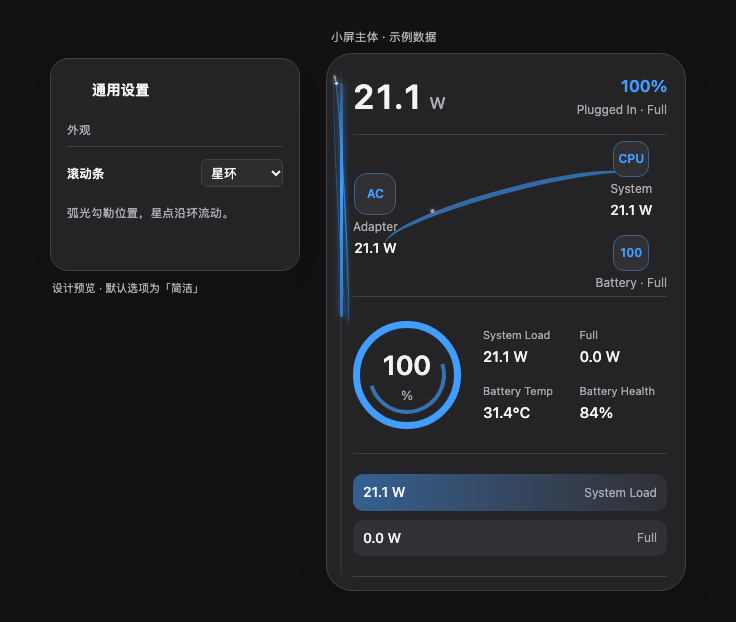
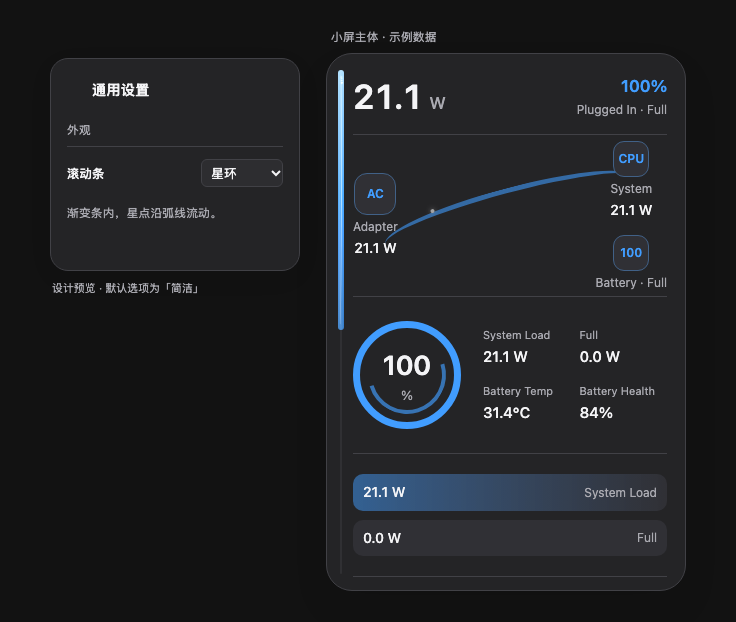
Keep orbit light inside the gradient scrollbar thumb

Changed region(s): [[0.4375, 0.1222, 0.5, 0.5193], [0.0938, 0.336, 0.3125, 0.3666]]

diff --git a/design/scrollbar-styles/scrollbar-style-preview.html b/design/scrollbar-styles/scrollbar-style-preview.html
@@ -66,15 +66,15 @@
 #wattson-scroll-design .ws-rail:focus-visible { outline:2px solid var(--ws-accent); outline-offset:-3px; border-radius:10px; }
 #wattson-scroll-design .ws-track { position:absolute; top:0; bottom:0; width:2px; left:12px; background:color-mix(in srgb,var(--ws-muted),transparent 91%); border-radius:2px; }
 #wattson-scroll-design .ws-thumb { position:absolute; left:0; width:26px; height:220px; top:0; pointer-events:none; }
-#wattson-scroll-design .ws-simple { position:absolute; left:10px; top:0; bottom:0; width:5px; background:light-dark(#8b8b9480,#b4b4be70); border-radius:5px; }
-#wattson-scroll-design .ws-rail:hover .ws-simple { background:var(--ws-muted); }
-#wattson-scroll-design .ws-orbit { position:absolute; inset:0; }
-#wattson-scroll-design .ws-core { position:absolute; left:12px; top:5%; height:90%; width:3px; border-radius:6px; background:linear-gradient(180deg,color-mix(in srgb,var(--ws-accent),transparent 65%),var(--ws-accent) 45%,color-mix(in srgb,var(--ws-accent),transparent 38%)); box-shadow:0 0 5px color-mix(in srgb,var(--ws-accent),transparent 76%); }
-#wattson-scroll-design .ws-orbit-line { position:absolute; inset:5px 9px; border:1px solid color-mix(in srgb,var(--ws-accent),transparent 65%); border-radius:50%; transform:rotate(-3deg); }
-#wattson-scroll-design .ws-orbit-front { border-left-color:transparent; border-top-color:color-mix(in srgb,var(--ws-bright),transparent 36%); border-bottom-color:transparent; border-right-color:var(--ws-accent); filter:drop-shadow(0 0 2px var(--ws-accent)); opacity:.66; }
-#wattson-scroll-design .ws-star { position:absolute; left:50%; top:50%; width:3px; height:3px; margin:-1.5px; border-radius:50%; background:#fff; box-shadow:0 0 2px var(--ws-accent),0 0 6px var(--ws-bright); }
-#wattson-scroll-design .ws-star:not([data-head]) { width:2px; height:2px; margin:-1px; }
-#wattson-scroll-design .ws-rail:hover .ws-core { box-shadow:0 0 7px color-mix(in srgb,var(--ws-accent),transparent 40%); }
+#wattson-scroll-design .ws-simple { position:absolute; left:10px; top:0; bottom:0; width:6px; background:linear-gradient(180deg,color-mix(in srgb,var(--ws-accent),white 48%),var(--ws-accent) 48%,color-mix(in srgb,var(--ws-accent),black 28%)); border-radius:6px; }
+#wattson-scroll-design .ws-rail:hover .ws-simple { filter:brightness(1.08); }
+#wattson-scroll-design .ws-orbit { position:absolute; left:10px; top:0; bottom:0; width:6px; overflow:hidden; border-radius:6px; isolation:isolate; background:linear-gradient(180deg,color-mix(in srgb,var(--ws-accent),white 48%),var(--ws-accent) 48%,color-mix(in srgb,var(--ws-accent),black 28%)); }
+#wattson-scroll-design .ws-core { position:absolute; inset:0; background:linear-gradient(90deg,#ffffff00,#ffffff28 48%,#ffffff00); box-shadow:inset 1px 0 1px #ffffff15; }
+#wattson-scroll-design .ws-orbit-line { position:absolute; inset:5px 1.4px; border:.6px solid #ffffff25; border-radius:50%; transform:skewX(-.18deg); }
+#wattson-scroll-design .ws-orbit-front { border-left-color:transparent; border-top-color:#ffffff65; border-bottom-color:transparent; border-right-color:#ffffff8a; opacity:.66; }
+#wattson-scroll-design .ws-star { position:absolute; left:50%; top:50%; width:2px; height:2px; margin:-1px; border-radius:50%; background:#fff; box-shadow:0 0 3px #ffffffb0,0 0 6px var(--ws-bright); }
+#wattson-scroll-design .ws-star:not([data-head]) { width:1.4px; height:1.4px; margin:-.7px; }
+#wattson-scroll-design .ws-rail:hover .ws-orbit { filter:brightness(1.08); }
 #wattson-scroll-design[data-style="simple"] .ws-orbit { display:none; }
 #wattson-scroll-design[data-style="orbit"] .ws-simple { display:none; }
 #wattson-scroll-design[data-style="hidden"] .ws-rail { display:none; }
@@ -106,7 +106,7 @@
             <option value="orbit" selected>星环</option>
           </select>
         </div>
-        <div id="scrollbar-description" class="ws-setting-note" aria-live="polite">弧光勾勒位置，星点沿环流动。</div>
+        <div id="scrollbar-description" class="ws-setting-note" aria-live="polite">渐变条内，星点沿弧线流动。</div>
       </section>
       <div class="ws-caption">设计预览 · 默认选项为「简洁」</div>
     </div>
@@ -175,7 +175,7 @@
   const thumb = root.querySelector('.ws-thumb');
   const choice = root.querySelector('#scrollbar-choice');
   const stars = [...root.querySelectorAll('.ws-star')];
-  const descriptions = {hidden:'隐藏滑动条，仍可用触控板或滚轮上下浏览。',simple:'低调的细滑块，直接拖动即可定位。',orbit:'弧光勾勒位置，星点沿环流动。'};
+  const descriptions = {hidden:'隐藏滑动条，仍可用触控板或滚轮上下浏览。',simple:'主题色渐变滑块，直接拖动即可定位。',orbit:'渐变条内，星点沿弧线流动。'};
   const ui = {style:'orbit',theme:'auto',palette:'blue',height:536,reduceMotion:false};
   const media = matchMedia('(prefers-reduced-motion: reduce)');
   let geometry = {height:1,travel:0,max:0,top:0};
@@ -184,11 +184,11 @@
   function positionStars(seconds) {
     const phase = reduced() ? .30 : Math.min((seconds % 3.3) / 2.8, 1);
     const angle = phase * Math.PI * 2 - Math.PI / 2;
-    const half = Math.max(geometry.height / 2 - 6, 4), tilt = -Math.PI / 60;
+    const half = Math.max(geometry.height / 2 - 6, 4);
     stars.forEach((node,index) => {
       const a = angle - index * .075;
-      const x = 3.5 * Math.cos(a), y = half * Math.sin(a);
-      node.style.transform = 'translate(' + (x * Math.cos(tilt) - y * Math.sin(tilt)).toFixed(2) + 'px,' + (x * Math.sin(tilt) + y * Math.cos(tilt)).toFixed(2) + 'px)';
+      const x = 1.3 * Math.cos(a) - .4 * Math.sin(a), y = half * Math.sin(a);
+      node.style.transform = 'translate(' + x.toFixed(2) + 'px,' + y.toFixed(2) + 'px)';
       const depth = .48 + .52 * (Math.cos(a) + 1) / 2;
       node.style.opacity = String((index ? .66 * Math.pow(.70,index-1) : 1) * depth);
     });

diff --git a/design/scrollbar-styles/README.md b/design/scrollbar-styles/README.md
@@ -14,10 +14,16 @@ from which only one will be implemented. The preview initially selects Orbit
 to show the proposed new treatment.
 
 - Hidden: no visible scrollbar; trackpad, wheel and keyboard scrolling remain.
-- Simple: retain the quiet native-style proportionate thumb, positioned left.
-- Orbit: the same stable, proportionate thumb carries a narrow inclined ring,
-  theme-colored light, one white leading point and a short dust tail. The point
-  travels down the near curve and returns along the dimmer far curve.
+- Simple: a quiet proportionate thumb with a light-to-deep theme-color gradient,
+  positioned left.
+- Orbit: the same 6px gradient capsule contains the entire curved light path,
+  white leading point and short dust tail. The point travels down the near
+  curve and returns along the dimmer far curve, wholly inside the thumb.
+
+User correction, 2026-10-31: the first proposal's outward ellipse was rejected.
+The revised ring is an internal material detail, clipped by the rounded capsule.
+No ring, dust or glow protrudes beyond the bar. Simple also uses a theme-color
+gradient. The 26px transparent hit region is unchanged and is not visible art.
 
 The thumb's position and length encode the actual viewport. Decorative motion
 never moves content or changes that geometry. Dragging is linear vertically,
@@ -34,8 +40,9 @@ existing time-source animation; there is no separate blinking cycle.
   interactions with content. Do not use global RTL to relocate a scrollbar.
 - Use the existing instrument palette: charging green, plugged/mixed blue,
   battery neutral, with Light/Dark contrast adjustments. No fixed blue palette.
-- Keep a visible stationary position indicator in Orbit. White points have a
-  contrasting edge on light surfaces. Hover/drag may strengthen the highlight,
+- Keep the stationary gradient capsule as the position indicator in Orbit.
+  White points sit over that colored fill, with highlights clipped inside it.
+  Hover/drag may strengthen the highlight,
   without widening the content layout or continuously changing its position.
 - Reduce Motion preserves a static ring and thumb. Close, hide, detach and
   no-overflow states stop motion. Honor higher-contrast and reduced-transparency
@@ -69,8 +76,11 @@ four layouts without horizontal overflow and twelve style/appearance/width
 interaction cases. All modes scroll; both visible thumbs drag to the bottom;
 switching preserves the reading position. The star moves in normal mode and
 remains stationary after a live Reduce Motion change. There were no JavaScript
-errors. Three cropped design screenshots and `verification.json` retain the
-results; the latter also records a fixed preview-only media-event edge case.
+errors. Five cropped design screenshots and `verification.json` retain the
+revised results, including the gradient Simple style in Light and Dark.
+The complete 3.4-second orbit observation sampled 1,435 star/tail bounds, with
+none outside the visible capsule; the rounded container also clips their glow.
+The original preview-only media-event correction remains in revision history.
 
 The browser owner exited successfully, then its scratch, referencing processes
 and temporary preview directories were confirmed absent. No installed App,

diff --git a/TODO.md b/TODO.md
@@ -2,7 +2,7 @@
 
 - [ ] **小屏主体滚动条：隐藏 / 简洁 / 星环。**
 
-  在「通用 → 外观 → 滚动条」提供三个选项，默认简洁。可见滑条放在左侧并支持拖动；星环沿主题色弧光运行白色星点与短尾迹，位置指示保持稳定。隐藏时仍可滚动，减少动态效果时保留静态星环。
+  在「通用 → 外观 → 滚动条」提供三个选项，默认简洁。可见滑条放在左侧并支持拖动，简洁和星环均使用主题色渐变；星环的弧光、白色星点与短尾迹全部收在滑动条内部，位置指示保持稳定。隐藏时仍可滚动，减少动态效果时保留静态星环。
 
   已制作[可交互设计稿与行为说明](design/scrollbar-styles/README.md)，待用户审阅后实施原生版本。
 
